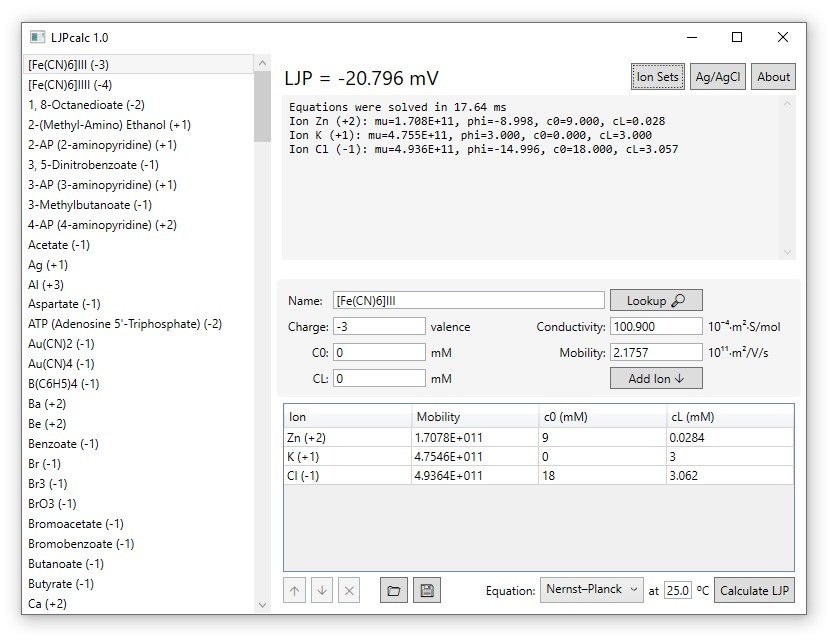
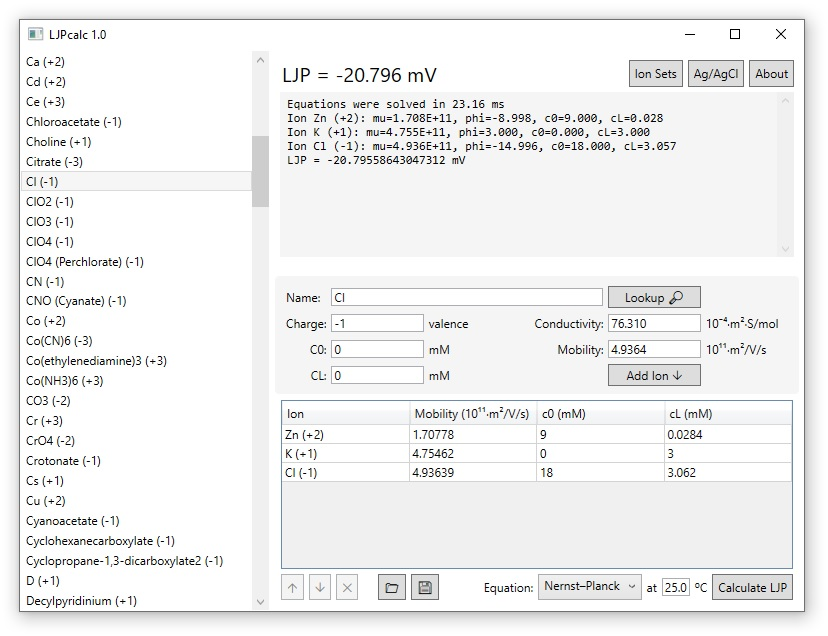
use smaller layout by default

Changed region(s): [[0.0, 0.0299, 0.9964, 0.9858], [0.3019, 0.0896, 0.8152, 0.3286], [0.3321, 0.4481, 0.936, 0.5975]]

diff --git a/src/LJPcalc/LjpControl.xaml b/src/LJPcalc/LjpControl.xaml
@@ -5,7 +5,7 @@
              xmlns:d="http://schemas.microsoft.com/expression/blend/2008" 
              xmlns:local="clr-namespace:LJPcalc"
              mc:Ignorable="d" 
-             d:DesignHeight="600" d:DesignWidth="750">
+             d:DesignHeight="600" d:DesignWidth="800">
 
     <Grid Background="White">
 
@@ -35,6 +35,7 @@
                                 <MenuItem Header="JLJP screenshot" Click="LoadExample_JLJP"/>
                                 <MenuItem Header="Ng and Barry, 1994" Click="LoadExample_NgAndBarry" />
                                 <MenuItem Header="JPWin screenshot" Click="LoadExample_JPWin" />
+                                <MenuItem Header="Patch-clamp solutions" Click="LoadExample_Patch" />
                             </ContextMenu>
                         </Button.ContextMenu>
                     </Button>
@@ -132,7 +133,7 @@
                         CurrentCellChanged="ValidateIonSet">
                         <DataGrid.Columns>
                             <DataGridTextColumn Header="Ion" Width="*" Binding="{Binding nameWithCharge}" IsReadOnly="True"/>
-                            <DataGridTextColumn Header="Mobility" Width="*" Binding="{Binding mu, StringFormat=E4}" IsReadOnly="True" />
+                            <DataGridTextColumn Header="Mobility (10¹¹·m²/V/s)" Width="*" Binding="{Binding muE11, StringFormat=N5}" IsReadOnly="True" />
                             <DataGridTextColumn Header="c0 (mM)" Width="*" Binding="{Binding c0}" IsReadOnly="False" />
                             <DataGridTextColumn Header="cL (mM)" Width="*" Binding="{Binding cL}" IsReadOnly="False" />
                         </DataGrid.Columns>

diff --git a/src/LJPcalc/LjpControl.xaml.cs b/src/LJPcalc/LjpControl.xaml.cs
@@ -371,6 +371,26 @@ namespace LJPcalc
             CalculateLjp(null, null);
         }
 
+        private void LoadExample_Patch(object sender, RoutedEventArgs e)
+        {
+            // ion set shown in JPCalcWin manual (page 7): https://tinyurl.com/wk7otn7
+            var ionTable = new IonTable();
+            ionSet.Clear();
+            ionSet.Add(ionTable.Lookup(new Ion("Ca", 0, 2.4)));
+            ionSet.Add(ionTable.Lookup(new Ion("Cl", 2, 133.8)));
+            ionSet.Add(ionTable.Lookup(new Ion("Gluconate", 125, 0)));
+            ionSet.Add(ionTable.Lookup(new Ion("H2PO4", 0, 1.2)));
+            ionSet.Add(ionTable.Lookup(new Ion("HCO3", 0, 25)));
+            ionSet.Add(ionTable.Lookup(new Ion("HEPES", 10, 0)));
+            ionSet.Add(ionTable.Lookup(new Ion("K", 125, 3)));
+            ionSet.Add(ionTable.Lookup(new Ion("Mg", 1, 1.5)));
+            ionSet.Add(ionTable.Lookup(new Ion("SO4", 0, 1.5)));
+            ionSet.Add(ionTable.Lookup(new Ion("Na", 4.25, 152.2)));
+            dataGrid1.Items.Refresh();
+            ValidateIonSet();
+            CalculateLjp(null, null);
+        }
+
         #endregion
 
         public event EventHandler AboutButtonClicked = delegate { };
@@ -396,6 +416,8 @@ namespace LJPcalc
             msg.AppendLine(string.Format("Equations were solved in {0:0.00} ms", elapsedSec * 1000.0));
             foreach (Ion ion in ionSetCopy)
                 msg.AppendLine(ion.ToString());
+            msg.AppendLine($"LJP = {ljp_V * 1000} mV");
+
             Message($"LJP = {ljp_V * 1000:0.000} mV", msg.ToString());
 
         }
